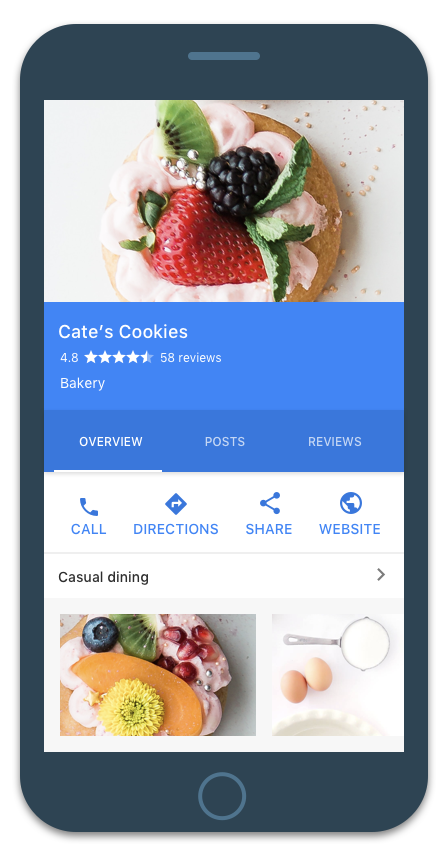
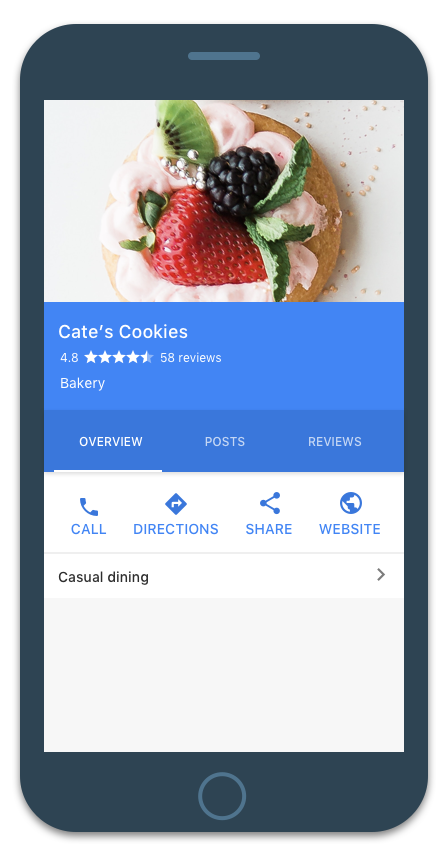
Fix height of nudge that changes depending on whether image has loaded
Tweak CSS to reduce the height of the nudge and the size of the text

Update nudge copy

refine the select business type styles

Do not open the 'Optimize Your SEO' option in a new tab

Compress phone screenshot by removing unseen parts and using an 8bit color palette

Make sure the nudge is 250px tall at least before the image is displayed

prepare for rebase an auto 3-way merge

Changed region(s): [[0.125, 0.697, 0.5938, 0.8788], [0.625, 0.7273, 0.7812, 0.8788]]

diff --git a/client/my-sites/google-my-business/select-business-type/index.js b/client/my-sites/google-my-business/select-business-type/index.js
@@ -25,11 +25,15 @@ class SelectBusinessType extends Component {
 	};
 
 	trackCreateMyListingClick = () => {
-		this.props.recordTracksEvent( 'calypso_test_google_my_business_select_business_type_create_my_listing_button_click' );
+		this.props.recordTracksEvent(
+			'calypso_test_google_my_business_select_business_type_create_my_listing_button_click'
+		);
 	};
 
 	trackOptimizeYourSEOClick = () => {
-		this.props.recordTracksEvent( 'calypso_test_google_my_business_select_business_type_optimize_your_seo_button_click' );
+		this.props.recordTracksEvent(
+			'calypso_test_google_my_business_select_business_type_optimize_your_seo_button_click'
+		);
 	};
 
 	goBack = () => {
@@ -49,12 +53,12 @@ class SelectBusinessType extends Component {
 					<div className="select-business-type__explanation-main">
 						<h1>{ translate( 'Which type of business are you?' ) }</h1>
 
-						<h2>
+						<p>
 							{ translate(
 								'Google My Business lists your local business on Google Search and Google Maps. ' +
-								'It works for businesses that have a physical location or serve a local area.'
+									'It works for businesses that have a physical location or serve a local area.'
 							) }
-						</h2>
+						</p>
 					</div>
 
 					<img
@@ -69,7 +73,7 @@ class SelectBusinessType extends Component {
 					} ) }
 					mainText={ translate(
 						'My business has a physical location customers can visit, ' +
-						'or provides goods and services to local customers, or both.'
+							'or provides goods and services to local customers, or both.'
 					) }
 					buttonText={ translate( 'Create My Listing', {
 						comment: 'Call to Action to add a business listing to Google My Business',
@@ -91,7 +95,6 @@ class SelectBusinessType extends Component {
 					buttonText={ translate( 'Optimize Your SEO', { comment: 'Call to Action button' } ) }
 					buttonIcon="external"
 					buttonHref={ '/settings/traffic/' + siteId }
-					buttonTarget="_blank"
 					buttonOnClick={ this.trackOptimizeYourSEOClick }
 				/>
 			</div>

diff --git a/client/my-sites/google-my-business/select-business-type/style.scss b/client/my-sites/google-my-business/select-business-type/style.scss
@@ -7,15 +7,17 @@
 
 .select-business-type__cta-card-main {
 	flex: 2 1;
+	padding: 0 15px;
 
 	h2 {
 		font-size: 21px;
 		color: $gray-dark;
 		font-weight: 400;
+		margin: 10px 0;
 	}
 
 	p {
-		font-size: 14px;
+		font-size: 16px;
 		color: $gray-dark;
 	}
 }
@@ -24,6 +26,7 @@
 	align-self: center;
 	flex: 1;
 	text-align: right;
+	margin: 0 20px;
 	@include breakpoint( "<960px" ) {
 		text-align: left;
 	}
@@ -41,25 +44,33 @@
 	@include breakpoint( "<960px" ) {
 		flex-direction: column-reverse;
 	}
-	
+
 	h1 {
 		color: $gray-dark;
 		font-size: 24px;
 		font-weight: 400;
+		margin: 16px 0;
 	}
 
-	h2 {
+	p {
 		color: $gray-dark;
-		font-size: 16px;
+		font-size: 18px;
 		font-weight: 400;
 	}
 
 	img {
-		max-width: 300px;
+		max-width: 400px;
+		width: 150%;
 		align-self: center;
+
+		@include breakpoint( "<1040px" ) {
+			max-width: 300px;
+			width: 100%;
+		}
 	}
 }
 
 .select-business-type__explanation-main {
+	margin: 0 50px 0 15px;
 	flex: 2 1;
 }

diff --git a/client/blocks/google-my-business-stats-nudge/style.scss b/client/blocks/google-my-business-stats-nudge/style.scss
@@ -16,7 +16,7 @@
 	padding: 11px 24px 11px 24px;
 	@include breakpoint( ">960px" ) {
 		// support image "flowing" off the edge of card
-		max-height: 300px;
+		max-height: 250px;
 		overflow: hidden;
 	}
 }
@@ -35,7 +35,7 @@
 	font-size: 18px;
 	font-weight: 400;
 	@include breakpoint( ">960px" ) {
-		font-size: 24px;
+		font-size: 20px;
 	}
 }
 
@@ -44,7 +44,7 @@
 	font-weight: 300;
 	margin: 10px 0;
 	@include breakpoint( ">960px" ) {
-		font-size: 18px;
+		font-size: 16px;
 	}
 }
 
@@ -61,9 +61,12 @@
 
 .google-my-business-stats-nudge__image-wrapper {
 	display: none;
+	width: 320px;
+	padding: 0 40px;
 	@include breakpoint( ">960px" ) {
 		display: block;
 		margin-right: 24px;
+		min-height: 250px;
 	}
 }
 

diff --git a/client/blocks/google-my-business-stats-nudge/index.js b/client/blocks/google-my-business-stats-nudge/index.js
@@ -85,12 +85,12 @@ class GoogleMyBusinessStatsNudge extends Component {
 
 					<div className="google-my-business-stats-nudge__info">
 						<h1 className="google-my-business-stats-nudge__title">
-							{ this.props.translate( 'Reach more customers with Google My Business' ) }
+							{ this.props.translate( 'Can your customers find you on Google?' ) }
 						</h1>
 
 						<h2 className="google-my-business-stats-nudge__description">
 							{ this.props.translate(
-								'Show up when customers search for businesses like yours on Google Search and Maps.'
+								'Be there when customers search businesses like yours on Google Search and Maps.'
 							) }
 						</h2>
 
